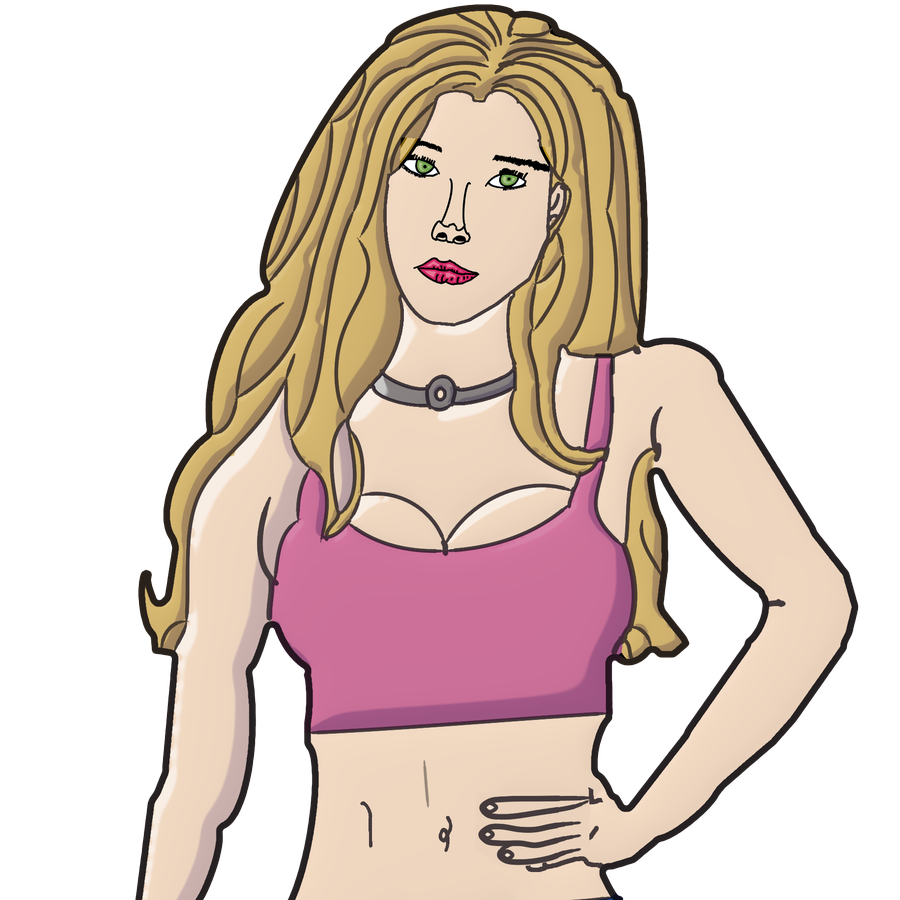
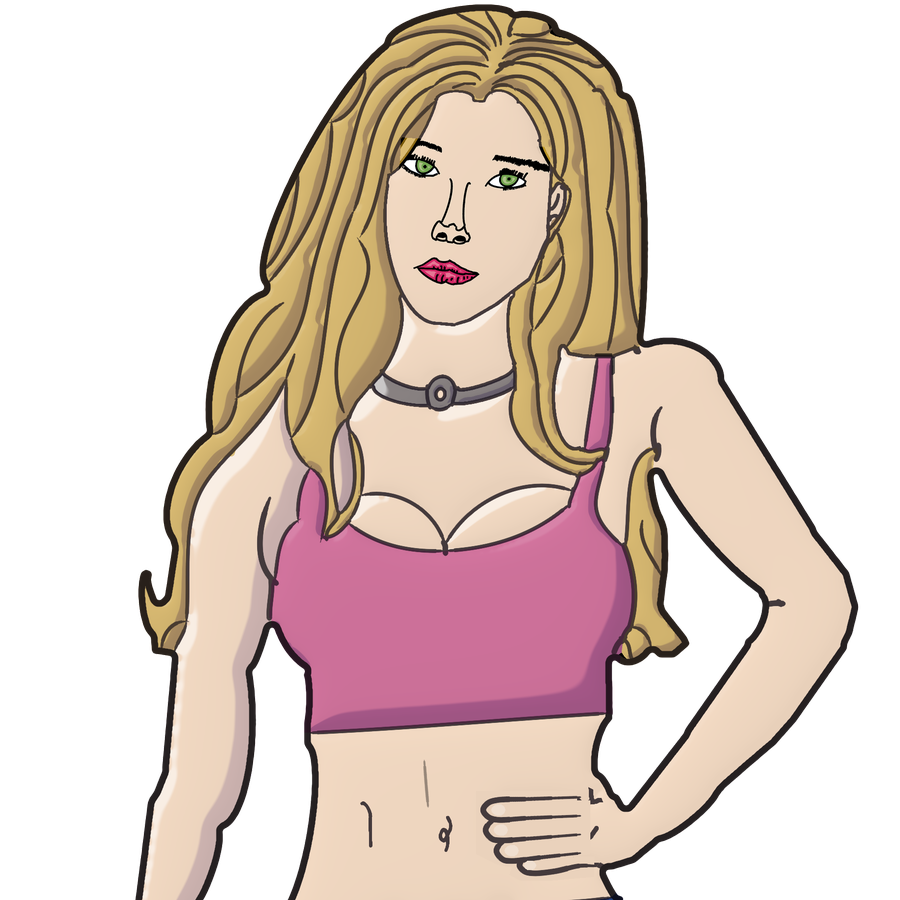
Redraw Elena's four fingers evenly side by side
Her index, middle and ring fingers are drawn again as one set: the same
width all along, each touching the next with no gap, rounded tips with
soft nails. The index finger had a wide tip and a thin body, and a strip
of skin sat between it and the middle finger. Her little finger, which
the drawing has as a single thick line, is now a proper finger too, a
little shorter and narrower than the others.

Claude-Session: https://claude.ai/code/session_01Av3CChAmtEthREyWYpJj31

Changed region(s): [[0.5289, 0.8711, 0.6533, 0.9956]]

diff --git a/tools/refine_sprites.py b/tools/refine_sprites.py
@@ -174,28 +174,32 @@ SHAPES = {
 REDRAWS = {}
 PATCHES = {
     "elena": [
-        # Her index finger, drawn again: a clean nail, no stray tick, and
-        # its lower edge running smoothly into the top one by the palm.
-        dict(erase=[(2200, 1615), (2400, 1614), (2400, 1631), (2430, 1631), (2432, 1656),
-                    (2330, 1672), (2280, 1680), (2240, 1680), (2200, 1674)],
+        # Her index, middle and ring fingers, drawn again side by side: the
+        # same width all along, each touching the next with no gap, rounded
+        # tips with nails. (The drawing has them as solid black strokes.)
+        dict(erase=[(2200, 1612), (2405, 1612), (2405, 1631), (2432, 1631), (2432, 1740),
+                    (2410, 1742), (2380, 1749), (2350, 1757), (2320, 1764), (2290, 1766),
+                    (2265, 1766), (2240, 1760), (2200, 1740)],
              colour_at=(2350, 1600),
-             lines=[[(2436, 1625), (2405, 1626), (2330, 1627), (2260, 1628), (2228, 1632), (2212, 1645),
-                     (2224, 1660), (2260, 1664), (2330, 1655), (2400, 1643), (2428, 1632)]],
-             nails=[[(2217, 1645), (2227, 1636), (2241, 1645), (2227, 1654)]]),
-        # Her middle and ring fingers, drawn again side by side where the
-        # drawing has them as two solid black strokes, each with a nail.
-        dict(erase=[(2198, 1678), (2245, 1670), (2275, 1676), (2320, 1675), (2365, 1665),
-                    (2395, 1659), (2430, 1656), (2430, 1738), (2410, 1739), (2380, 1745),
-                    (2350, 1754), (2320, 1761), (2290, 1765), (2260, 1765), (2240, 1759),
-                    (2220, 1746), (2198, 1730)],
+             lines=[[(2412, 1624), (2300, 1628), (2242, 1630), (2224, 1636), (2214, 1650),
+                     (2224, 1664), (2242, 1670), (2300, 1667), (2412, 1662)],
+                    [(2252, 1670), (2232, 1673), (2219, 1691), (2232, 1709), (2252, 1712),
+                     (2300, 1709), (2412, 1700)],
+                    [(2272, 1712), (2254, 1715), (2241, 1733), (2254, 1751), (2272, 1754),
+                     (2330, 1747), (2412, 1738)]],
+             nails=[[(2231, 1650), (2237, 1641), (2252, 1640), (2259, 1650), (2252, 1660), (2237, 1659)],
+                    [(2236, 1691), (2242, 1682), (2257, 1681), (2264, 1691), (2257, 1701), (2242, 1700)],
+                    [(2258, 1733), (2264, 1724), (2279, 1723), (2286, 1733), (2279, 1743), (2264, 1742)]],
+             nail_lines=False),
+        # Her little finger, which the drawing has as a single thick line:
+        # a finger like the others, a little shorter and narrower.
+        dict(erase=[(2275, 1762), (2330, 1754), (2412, 1745), (2440, 1745), (2440, 1786),
+                    (2350, 1794), (2290, 1794), (2268, 1782)],
              colour_at=(2350, 1600),
-             lines=[[(2412, 1676), (2380, 1679), (2350, 1684), (2320, 1690), (2290, 1690),
-                     (2250, 1684), (2226, 1686), (2210, 1700), (2222, 1714), (2250, 1718),
-                     (2290, 1718), (2320, 1722), (2350, 1716), (2380, 1708), (2412, 1702)],
-                    [(2275, 1720), (2256, 1728), (2248, 1742), (2260, 1753), (2300, 1756),
-                     (2350, 1748), (2380, 1737), (2412, 1730)]],
-             nails=[[(2214, 1700), (2223, 1692), (2234, 1700), (2223, 1708)],
-                    [(2254, 1742), (2263, 1734), (2274, 1742), (2263, 1750)]]),
+             lines=[[(2308, 1748), (2295, 1752), (2288, 1763), (2298, 1775), (2315, 1779),
+                     (2360, 1775), (2410, 1764), (2442, 1764)]],
+             nails=[[(2298, 1763), (2303, 1755), (2316, 1755), (2322, 1763), (2316, 1771), (2303, 1771)]],
+             nail_lines=False),
     ],
     "gus": [
         # His fingertips: four rounded tips with nails, as long as drawn,
